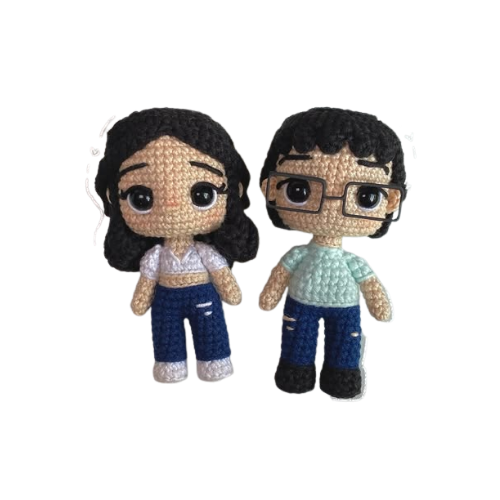
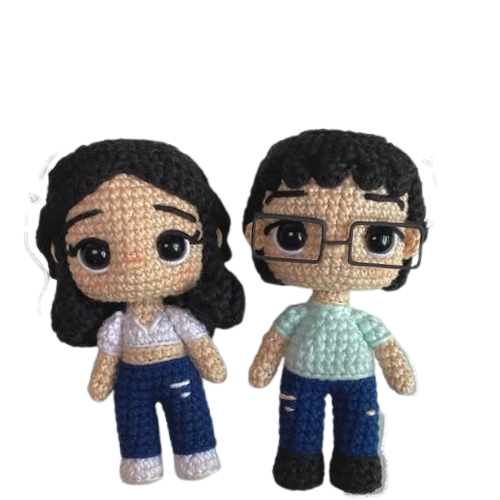
Terminar productos destacados + imagenes de categoria

diff --git a/index.html b/index.html
@@ -97,28 +97,28 @@
 
                 </article>
 
-                <article class="producto-card">
+                <article class="tarjeta">
 
-                    <img src="assets/img/productos/conejo.jpg" alt="Amigurumi de conejo tejido">
+                    <img src="assets/img/productos/perrielornitorrinco.png" alt="Amigurumi de Perry el Ornitorrinco, de la serie Finnyas y Ferbs. En formato horizontal.">
 
                     <div class="producto-info">
-                        <h3>Conejito</h3>
-                        <p class="precio">$XX.XXX</p>
-                        <a href="producto-detalle.html">
+                        <h3>Perry el Ornitorrinco</h3>
+                        <p class="precio">$40.000 COP</p>
+                        <a href="producto-detalle.html" class="button">
                             Ver producto
                         </a>
                     </div>
 
                 </article>
 
-                <article class="producto-card">
+                <article class="tarjeta">
 
-                    <img src="assets/img/productos/pareja.jpg" alt="Amigurumis tejidos de una pareja">
+                    <img src="assets/img/productos/muñeca.png" alt="Amigurumis de una muñeca que representa a una persona, pelo largo, ropa tipo clima frio.">
 
                     <div class="producto-info">
-                        <h3>Dos historias</h3>
-                        <p class="precio">$XX.XXX</p>
-                        <a href="producto-detalle.html">
+                        <h3>Esa persona ideal</h3>
+                        <p class="precio">$100.000 COP</p>
+                        <a href="producto-detalle.html" class="button">
                             Ver producto
                         </a>
                     </div>

diff --git a/assets/css/style.css b/assets/css/style.css
@@ -430,19 +430,18 @@ nav a:hover {
 
     display: flex;
     flex-direction: column;
-    justify-content: flex-start;
     align-items: center;
 
-    
+    height: 100%;
 
 }
 
 .tarjeta img {
-    width: 100%;
-    height: auto;
-    border-radius: var(--border-rdp);
+   width: 100%;
+    height: 250px;
     object-fit: cover;
-    margin-bottom: 15px }
+    border-radius: var(--border-rdp);
+    margin-bottom: 15px; }
 
 .tarjeta h3 {
     margin: 0 0 12px 0;
@@ -452,6 +451,7 @@ nav a:hover {
 .tarjeta p {
     text-align: center;
     margin-bottom: var(--margin-bt0);
+    flex-grow: 1;
 }
 
 .tarjeta:hover {
@@ -504,20 +504,34 @@ nav a:hover {
 --------------------------------------------------------------------------------*/
 
 
+.producto-info h3 {
+    margin: 0 0 12px 0;
+    min-height: 2.6rem; 
+    display: flex;
+    align-items: center;
+    justify-content: center;
+}
+
 .propuesta-valor p {
     text-align: center;
+    flex-grow: 1;
 }
 
 .producto-info {
     display: flex;
     flex-direction: column;
-    align-items: center;  /* Centra horizontalmente el título, precio y botón */
-    text-align: center;   /* Centra el texto */
-    width: 100%;          /* Asegura que ocupe el ancho disponible */
+    align-items: center;  
+    text-align: center;   
+    width: 100%;      
+    margin-top: auto;    
 }
 
-/* Aseguramos que el botón dentro de la info se centre perfectamente */
+.producto-info .precio {
+    margin-top: auto;
+    margin-bottom: 12px;
+}
+
+
 .producto-info .button {
     align-self: center;
-    margin-top: 10px;
 }
